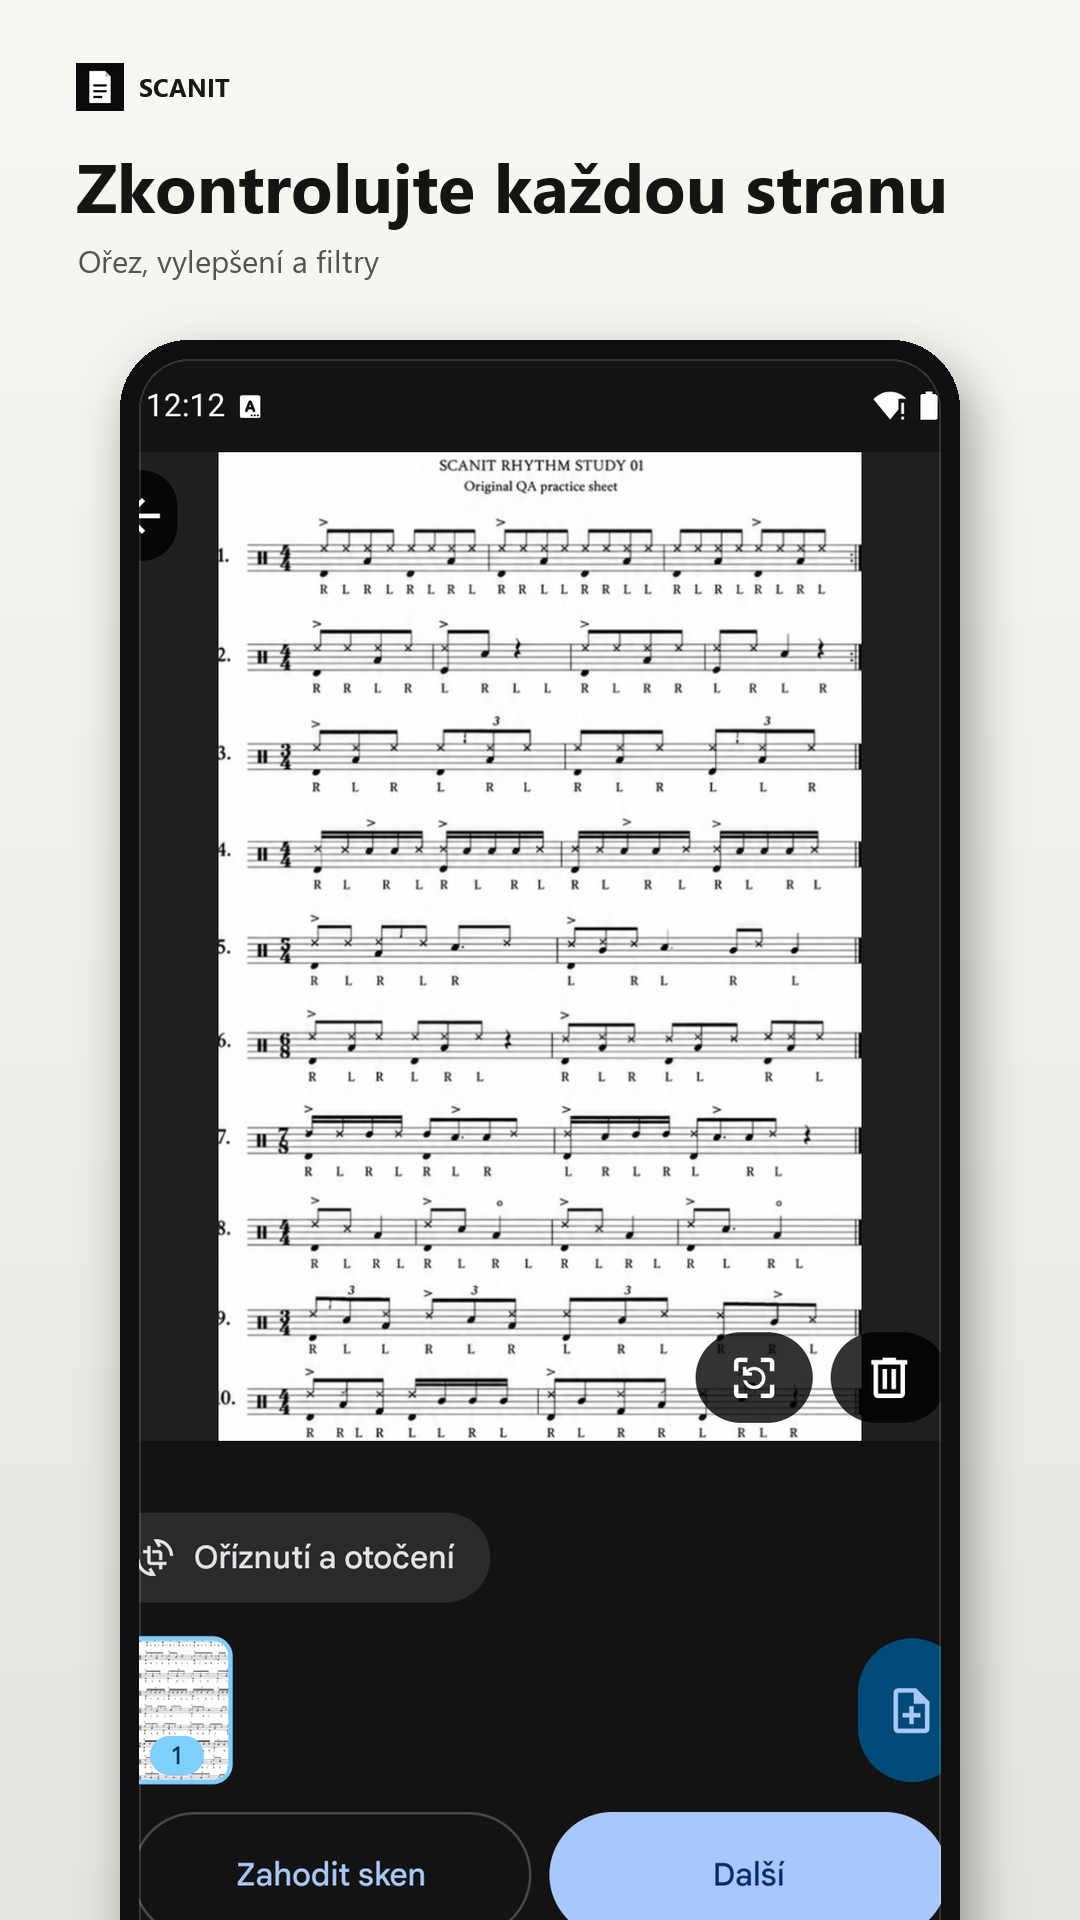
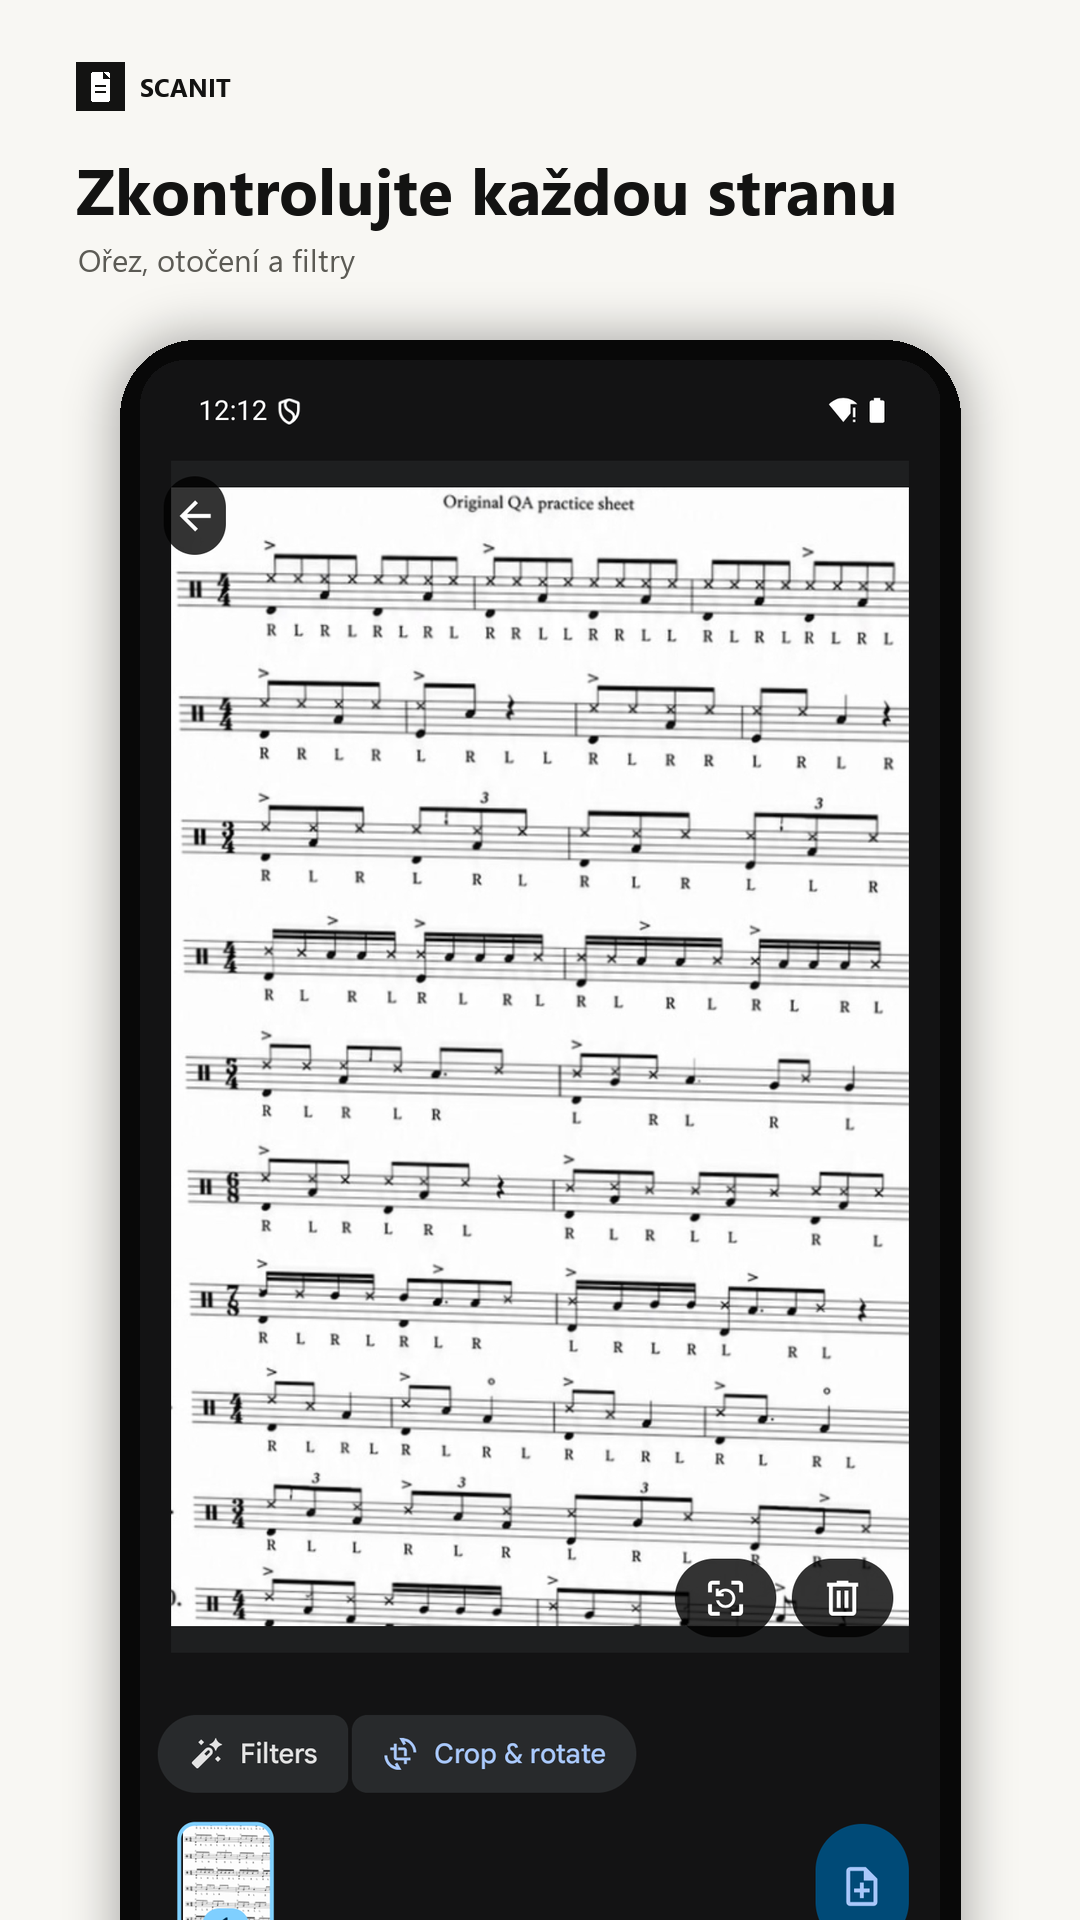
docs: refresh store screenshots

Changed region(s): [[0.1222, 0.1875, 0.9167, 1.0], [0.0611, 0.0312, 0.8861, 0.1562]]

diff --git a/docs/play-store/PLAY_CONSOLE.md b/docs/play-store/PLAY_CONSOLE.md
@@ -281,41 +281,45 @@ Use the current official [Google Play preview-asset requirements](https://suppor
 
 - App icon: 512 × 512, 32-bit PNG with alpha, at most 1,024 KB.
 - Feature graphic: 1024 × 500, JPEG or 24-bit PNG without alpha.
-- Phone screenshots: prepare six accurate English and six accurate Czech 1080 × 1920 images; Google Play requires at least two and recommends at least four 1080px 9:16 images for app promotion surfaces.
+- Phone screenshots: prepare eight accurate English and eight accurate Czech 1080 × 1920 images; Google Play requires at least two and recommends at least four 1080px 9:16 images for app promotion surfaces.
 - Screenshots must show the real current UI, use `12:12`, omit notifications, carrier identity, and battery percentage, and contain no private documents or third-party copyrighted sheet music.
 - Provide English and Czech alt text for every uploaded graphic.
 
 ### Asset manifest
 
-The files below pass dimension/format checks, but the Result and Recent UI
-changed materially in 1.3.0. Recapture and validate those workflow screenshots
-from the final artifact during Task 8 before uploading them; do not reuse an old
-screen as current UI evidence.
+The files below use real current UI captures from the final artifact. They were
+recaptured after the Result and Recent UI changes and use only the original QA
+practice sheet.
 
 - `assets/icon.png`: 512 × 512 RGBA PNG, no text or badge.
 - `assets/feature-graphic.png`: 1024 × 500 RGB PNG, no alpha.
-- `assets/en-US/phone/01-capture.png` through `06-settings.png`: six 1080 × 1920 RGB PNG screenshots.
-- `assets/cs-CZ/phone/01-capture.png` through `06-settings.png`: six 1080 × 1920 RGB PNG screenshots. Upload `02` through `06`; keep `01` as evidence because the emulator camera scene is less representative than the other five images.
+- `assets/en-US/phone/01-capture.png` through `08-pdf-size.png`: eight 1080 × 1920 RGB PNG screenshots.
+- `assets/cs-CZ/phone/01-capture.png` through `08-pdf-size.png`: eight 1080 × 1920 RGB PNG screenshots.
 
-Upload screenshots in this order: capture, review, result, Recent scans, visual mark, Settings.
+Upload screenshots in this exact order: capture, review, result, File details,
+Recent scans, Sign / stamp, Actions, PDF size.
 
 English alt text:
 
 1. `ScanIt detects the edges of an original document before capture.`
 2. `Review, crop, enhance, and filter scanned pages before saving.`
-3. `ScanIt result with PDF sharing, image sharing, printing, and a new-scan action.`
-4. `Recent scans with a document preview, page count, file size, and actions.`
-5. `Visual mark editor placing a SAMPLE mark on a scanned page.`
-6. `Settings for language, local saving, sharing, and PDF size.`
+3. `ScanIt result with rescan, signature, document actions, sharing, printing, and file details.`
+4. `Expanded PDF and image details with size, format, and location controls.`
+5. `Recent scans with document previews, page counts, file sizes, and one-tap opening.`
+6. `Signature and stamp editor with direct placement controls.`
+7. `On-device text extraction and QR or barcode actions.`
+8. `PDF size choices including original, common limits, and a custom target.`
 
 Czech alt text:
 
 1. `ScanIt rozpoznává okraje původního dokumentu před pořízením skenu.`
 2. `Kontrola, ořez, vylepšení a filtrování naskenovaných stran před uložením.`
-3. `Výsledek ve ScanIt se sdílením PDF a obrázků, tiskem a novým skenem.`
-4. `Nedávné skeny s náhledem dokumentu, počtem stran, velikostí a akcemi.`
-5. `Editor vizuální značky umisťuje značku SAMPLE na naskenovanou stranu.`
-6. `Nastavení jazyka, místního ukládání, sdílení a velikosti PDF.`
+3. `Výsledek ve ScanIt s novým skenem, podpisem, akcemi, sdílením, tiskem a podrobnostmi souborů.`
+4. `Rozbalené podrobnosti PDF a obrázků s ovládáním velikosti, formátu a umístění.`
+5. `Nedávné skeny s náhledy, počtem stran, velikostí a otevřením jedním klepnutím.`
+6. `Editor podpisu a razítka s přímým ovládáním umístění.`
+7. `Rozpoznání textu a QR nebo čárových kódů přímo v zařízení.`
+8. `Volba velikosti PDF včetně původní, běžných limitů a vlastního cíle.`
 
 Do not show a Play badge, price/free claim, ranking, award, download call to
 action, donation, unfinished feature, or device mockup in the feature graphic.

diff --git a/docs/reddit/POST.md b/docs/reddit/POST.md
@@ -56,13 +56,16 @@ Please do not send private documents in bug reports.
 
 ## Gallery order
 
-1. `../images/scanit-v1.1-update.png`
-2. `../play-store/assets/en-US/phone/04-recent.png`
-3. `../play-store/assets/en-US/phone/05-visual-mark.png`
-4. `../play-store/assets/en-US/phone/06-settings.png`
-5. `../play-store/assets/en-US/phone/03-result.png`
-6. `../play-store/assets/en-US/phone/01-capture.png`
+1. `../play-store/assets/en-US/phone/01-capture.png`
+2. `../play-store/assets/en-US/phone/02-review.png`
+3. `../play-store/assets/en-US/phone/03-result.png`
+4. `../play-store/assets/en-US/phone/04-file-details.png`
+5. `../play-store/assets/en-US/phone/05-recent.png`
+6. `../play-store/assets/en-US/phone/06-sign-stamp.png`
+7. `../play-store/assets/en-US/phone/07-actions.png`
+8. `../play-store/assets/en-US/phone/08-pdf-size.png`
 
-All phone panels are real UI captures. The update cover uses a generated
-monochrome background plate, with no generated UI or device frame. Do not add a
-private document, personal signature, price claim, ranking, or Google branding.
+All phone panels use real current UI captures and an original QA document. The
+marketing frame adds only restrained headings around the unchanged app UI. Do
+not add a private document, personal signature, price claim, ranking, or Google
+branding.

diff --git a/README.md b/README.md
@@ -67,9 +67,10 @@ ScanIt was built with AI-assisted coding and design. The maintainer reviews the
 source, release artifacts, and real-device workflows.
 
 <p align="center">
-  <img src="docs/play-store/assets/en-US/phone/03-result.png" width="30%" alt="ScanIt result with PDF sharing, image sharing, printing, and a new-scan action.">
-  <img src="docs/play-store/assets/en-US/phone/04-recent.png" width="30%" alt="Recent scans with a document preview, page count, file size, and actions.">
-  <img src="docs/play-store/assets/en-US/phone/05-visual-mark.png" width="30%" alt="Visual mark editor placing a SAMPLE mark on a scanned page.">
+  <img src="docs/play-store/assets/en-US/phone/03-result.png" width="23%" alt="ScanIt result with rescan, signature, document actions, sharing, printing, and file details.">
+  <img src="docs/play-store/assets/en-US/phone/04-file-details.png" width="23%" alt="Expanded PDF and image details with size, format, and location controls.">
+  <img src="docs/play-store/assets/en-US/phone/06-sign-stamp.png" width="23%" alt="Signature and stamp editor with direct placement controls.">
+  <img src="docs/play-store/assets/en-US/phone/07-actions.png" width="23%" alt="On-device text extraction and QR or barcode actions.">
 </p>
 
 [See all English and Czech screenshots](docs/play-store/assets/).
